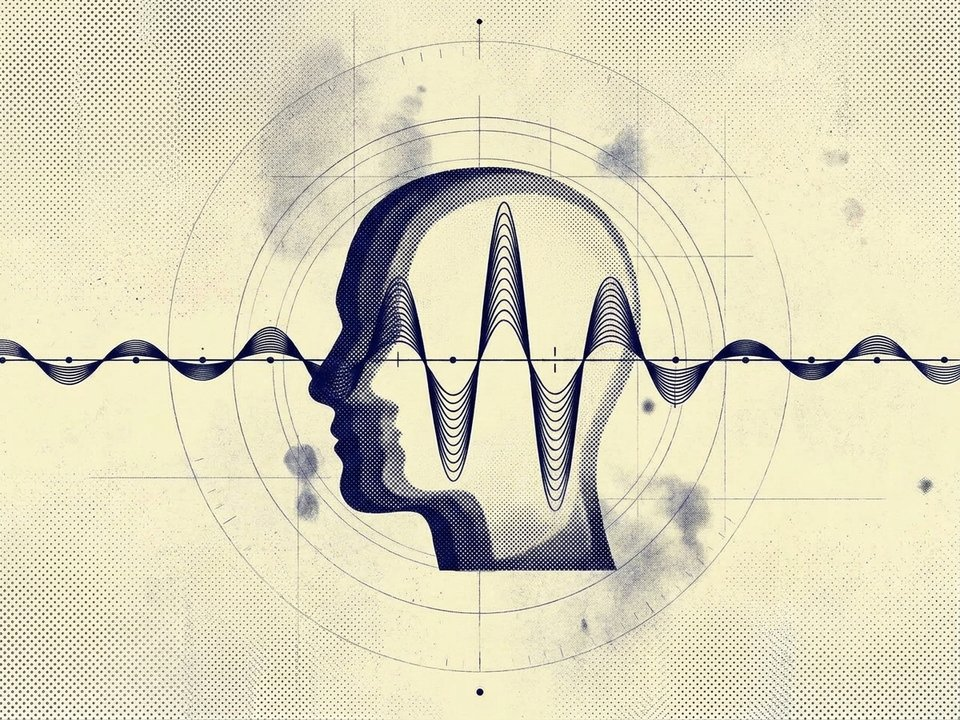
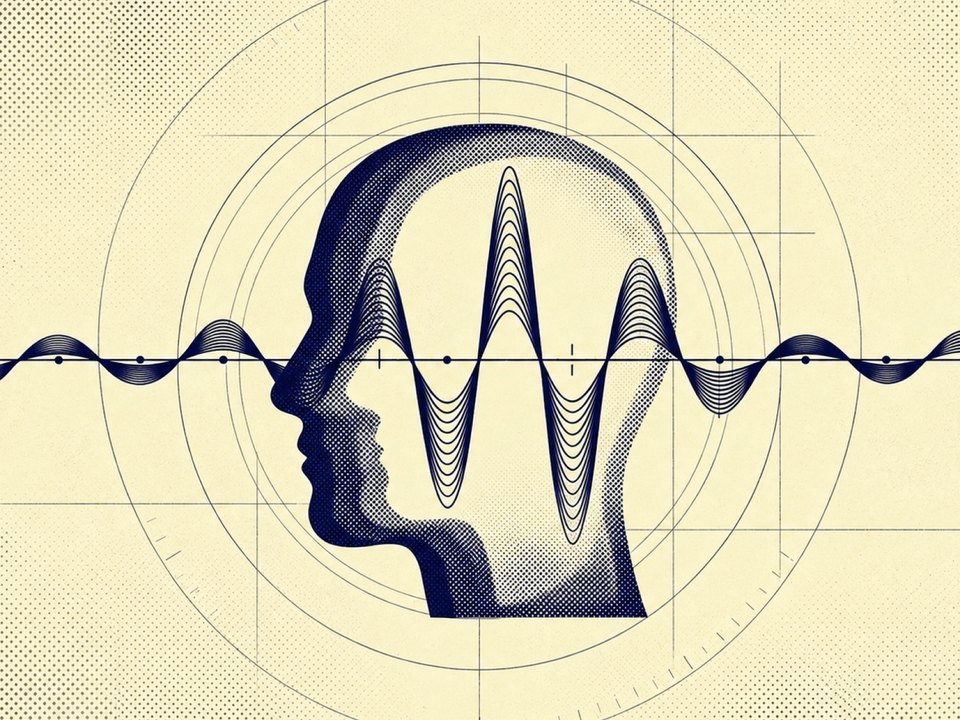
Measurement: brand.png is the only image; variants v1, v3-v5 deleted. Temporary image switcher script and CSS removed (no sliders left)

diff --git a/index.html b/index.html
@@ -645,14 +645,6 @@ html.is-loading .header__logo { opacity: 0; } /* corner stays empty until the sh
   .footer__mark { width: min(36.5vw, 54vh, 578px); margin-right: var(--s3); } /* -15% */
 }
 
-/* TEMP: Campaign visual variant switcher (only with ?campaign=…) */
-.variant-switch { position: absolute; z-index: 5; right: 8px; bottom: 8px; display: flex; gap: 4px; opacity: 0.8; transition: opacity 0.3s var(--ease); }
-.variant-switch:hover, .variant-switch:focus-within { opacity: 1; }
-.variant-switch button { width: 26px; height: 26px; padding: 0; border: 0; background: #15209f; color: #f0ede5; font: 400 16px/1 var(--text); cursor: pointer; }
-.variant-switch button:hover { background: #f0ede5; color: #15209f; }
-.variant-switch button:active { transform: scale(0.94); }
-.variant-switch button:focus-visible { outline: 2px solid #f0ede5; outline-offset: 2px; }
-@media (pointer: coarse) { .variant-switch button { width: 40px; height: 40px; } }
 
 /* Header hover: decrypted-text effect (letters scramble, then resolve left to right) */
 .dc-word { white-space: nowrap; }
@@ -1043,7 +1035,7 @@ html.is-loading .header__logo { opacity: 0; } /* corner stays empty until the sh
 
     <article class="service" aria-labelledby="s4">
       <figure class="service__media">
-        <img src="assets/img/measurement.jpg" srcset="assets/img/measurement-m.jpg 960w, assets/img/measurement.jpg 1600w" sizes="(min-width: 900px) 28vw, 55vw" data-variant-key="measurement" data-variants="v1,v3,v4,v5" alt="Double profile of a head crossed by a bundle of sound waves, over measurement rings on cream paper" data-dither loading="lazy" width="1600" height="1200">
+        <img src="assets/img/measurement.jpg" srcset="assets/img/measurement-m.jpg 960w, assets/img/measurement.jpg 1600w" sizes="(min-width: 900px) 28vw, 55vw" alt="Head profile crossed by a bundle of sound waves, over measurement rings and grid lines" data-dither loading="lazy" width="1600" height="1200">
       </figure>
       <div class="service__body">
         <div>
@@ -1387,35 +1379,6 @@ html.is-loading .header__logo { opacity: 0; } /* corner stays empty until the sh
   if ('ResizeObserver' in window) { const ro = new ResizeObserver(again); ro.observe(intro.querySelector('.intro__statement')); ro.observe(word); }
 })();
 
-/* TEMP visual variant switcher (all services).
-   Hidden unless the URL has ?variants. Each image with data-variants gets ‹ › controls;
-   choices live in the URL (e.g. ?variants&campaign=v5&media=v2) and reload the page so the dither redraws.
-   To finish: set the chosen file as the img src, then delete this script, the data-variant* attributes and the .variant-switch CSS. */
-(() => {
-  const params = new URLSearchParams(location.search);
-  document.querySelectorAll('img[data-variants]').forEach(img => {
-    const key = img.dataset.variantKey;
-    const list = ['current', ...img.dataset.variants.split(',')];
-    let i = Math.max(0, list.indexOf(params.get(key) || 'current'));
-    if (list[i] !== 'current') {
-      img.removeAttribute('srcset');
-      img.src = `assets/img/${key}-${list[i]}${window.__touchDither ? '-m' : ''}.jpg`;
-      img.loading = 'eager';
-    }
-    const go = d => {
-      const p = new URLSearchParams(location.search); p.delete('variants');
-      const next = list[(i + d + list.length) % list.length];
-      if (next === 'current') p.delete(key); else p.set(key, next);
-      const qs = p.toString();
-      location.href = (qs ? '?' + qs : location.pathname) + '#' + img.closest('.service').querySelector('h3').id;
-    };
-    const ui = document.createElement('div');
-    ui.className = 'variant-switch';
-    ui.innerHTML = `<button type="button" aria-label="Previous photo" title="${key}: ${list[i]}">‹</button><button type="button" aria-label="Next photo" title="${key}: ${list[i]}">›</button>`;
-    ui.children[0].onclick = () => go(-1); ui.children[1].onclick = () => go(1);
-    img.closest('figure').appendChild(ui);
-  });
-})();
 </script>
 <script>
 /* Audit panel background: a grid of square blocks, each filled with one pattern
